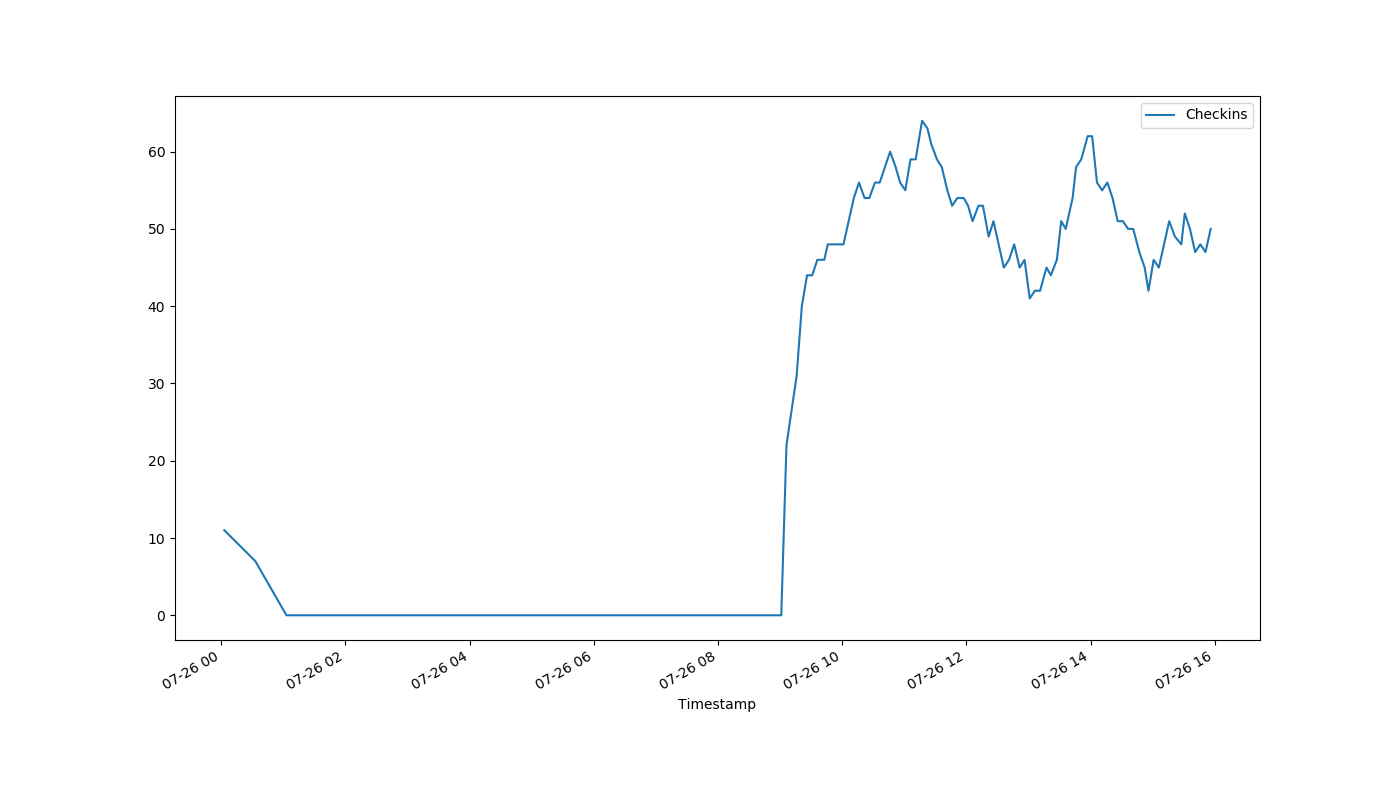
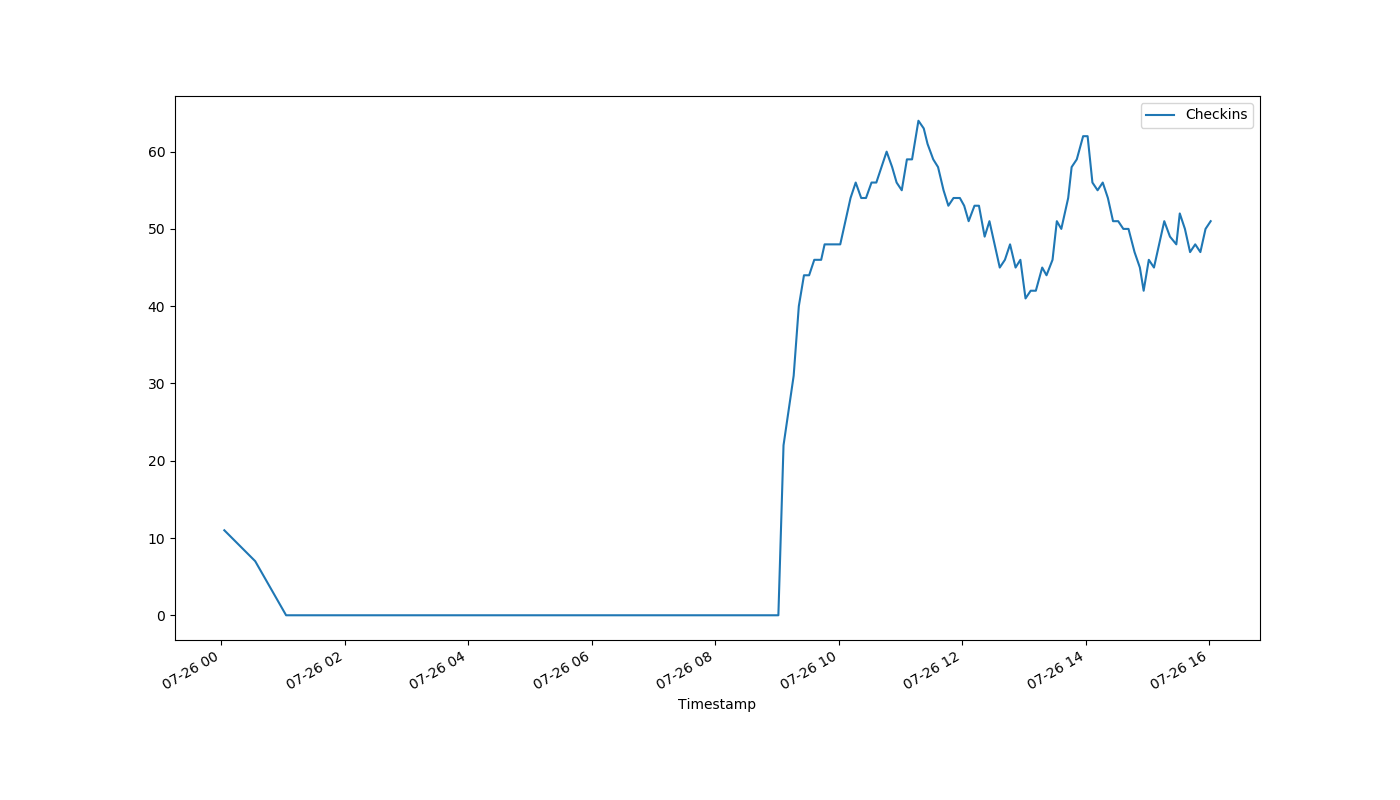
auto-Jul-26-16:01:35

diff --git a/index.html b/index.html
@@ -1,1 +1,1 @@
-<!DOCTYPE html><html><head><meta http-equiv="refresh" content="30"><link rel='stylesheet' href='holmcurrent.css'></head><body><p id='count'>50</p><div id='graph-wrap'><img id='graph' src='holmgraph-Jul-26.png'></div><p id='updated'>Last updated 15:56:09 / 15:56:08</p></body></html>
+<!DOCTYPE html><html><head><meta http-equiv="refresh" content="30"><link rel='stylesheet' href='holmcurrent.css'></head><body><p id='count'>51</p><div id='graph-wrap'><img id='graph' src='holmgraph-Jul-26.png'></div><p id='updated'>Last updated 16:01:09 / 16:01:09</p></body></html>
